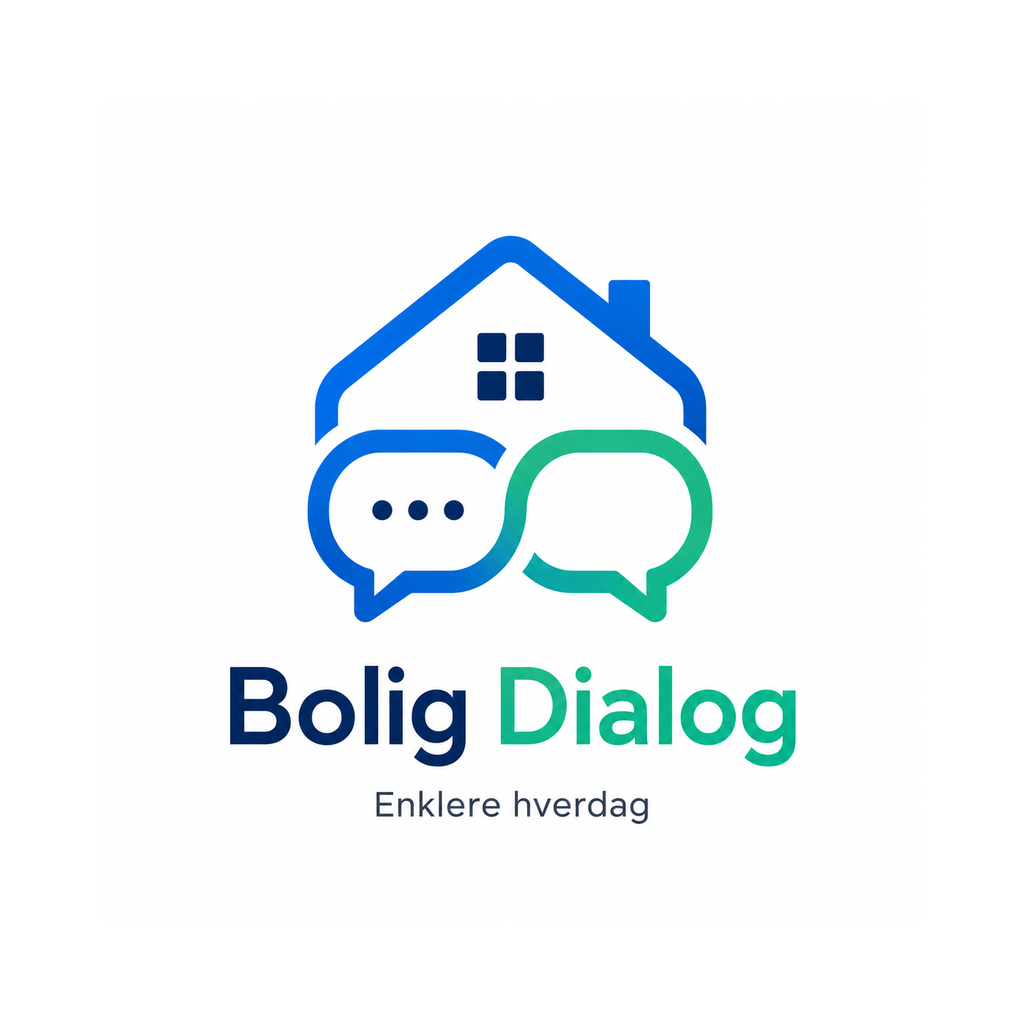
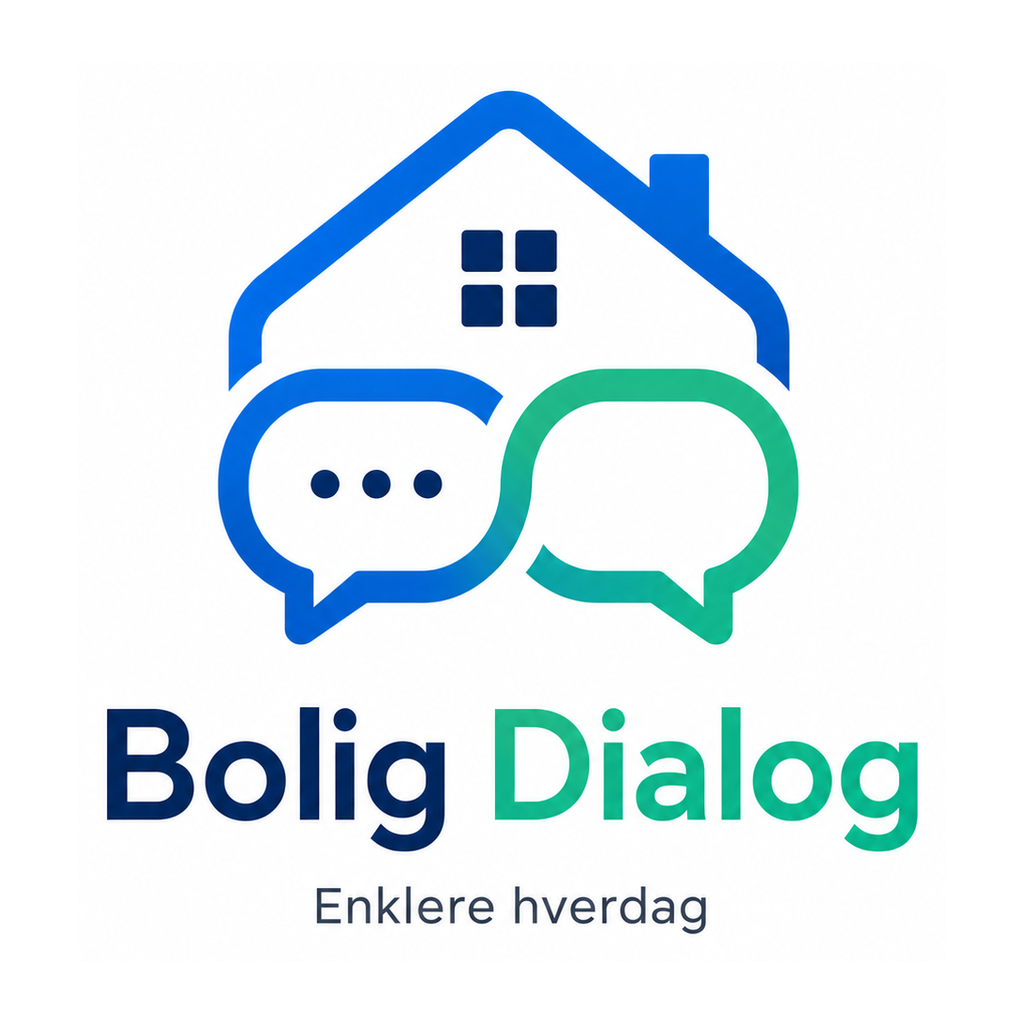
Fix frysing, dokumentopplasting og app-ikon
- App-ikon: logo beskjært og skalert til 868x900 (88% av 1024) — fyller hele ikonruten
- base64ToUint8Array: array-push i stedet for string-konkat — unngår frysing ved store filer
- renderItem: useCallback med [leases, units] dep — unngår unødvendige re-renders av FlatList
- useMemo importert for fremtidig bruk

Changed region(s): [[0.0938, 0.0625, 0.9062, 0.8438], [0.2812, 0.8438, 0.6875, 0.9062]]

diff --git a/app/(landlord)/property/[id].tsx b/app/(landlord)/property/[id].tsx
@@ -1,4 +1,4 @@
-import { useState, useEffect, useCallback } from 'react';
+import { useState, useEffect, useCallback, useMemo } from 'react';
 import { View, Text, FlatList, TouchableOpacity, Modal, TextInput, StyleSheet, ActivityIndicator, Alert, KeyboardAvoidingView, Platform, ScrollView, Image } from 'react-native';
 import DateTimePicker from '@react-native-community/datetimepicker';
 import * as Clipboard from 'expo-clipboard';
@@ -12,22 +12,21 @@ import { useAuthStore } from '@/stores/authStore';
 import { PropertyRow, UnitRow, ExpenseRow, ExpenseCategory, DocumentRow, DocumentCategory, LeaseRow } from '@/lib/types';
 import { Ionicons } from '@expo/vector-icons';
 
-// Base64 decode som fungerer i React Native (ingen atob-avhengighet)
-function decode(base64: string): string {
+// Konverter base64-streng til Uint8Array uten atob (fungerer i React Native)
+function base64ToUint8Array(base64: string): Uint8Array {
[1 lines of base64/hex data omitted]
-  let result = '';
-  let i = 0;
   const str = base64.replace(/=+$/, '');
-  while (i < str.length) {
-    const enc1 = chars.indexOf(str[i++]);
-    const enc2 = chars.indexOf(str[i++]);
-    const enc3 = chars.indexOf(str[i++]);
-    const enc4 = chars.indexOf(str[i++]);
-    result += String.fromCharCode((enc1 << 2) | (enc2 >> 4));
-    if (enc3 !== -1) result += String.fromCharCode(((enc2 & 15) << 4) | (enc3 >> 2));
-    if (enc4 !== -1) result += String.fromCharCode(((enc3 & 3) << 6) | enc4);
+  const bytes: number[] = [];
+  for (let i = 0; i < str.length; i += 4) {
+    const e1 = chars.indexOf(str[i]);
+    const e2 = chars.indexOf(str[i + 1]);
+    const e3 = chars.indexOf(str[i + 2]);
+    const e4 = chars.indexOf(str[i + 3]);
+    bytes.push((e1 << 2) | (e2 >> 4));
+    if (e3 !== -1) bytes.push(((e2 & 15) << 4) | (e3 >> 2));
+    if (e4 !== -1) bytes.push(((e3 & 3) << 6) | e4);
   }
-  return result;
+  return new Uint8Array(bytes);
 }
 
 const DOC_CATEGORIES: { key: DocumentCategory; label: string; icon: string; color: string }[] = [
@@ -137,11 +136,7 @@ export default function PropertyDetailScreen() {
     setUploadingDoc(true);
     try {
       const base64 = await FileSystem.readAsStringAsync(pendingDoc.uri, { encoding: FileSystem.EncodingType.Base64 });
-      const byteCharacters = decode(base64);
-      const byteArray = new Uint8Array(byteCharacters.length);
-      for (let i = 0; i < byteCharacters.length; i++) {
-        byteArray[i] = byteCharacters.charCodeAt(i);
-      }
+      const byteArray = base64ToUint8Array(base64);
       const path = `${user!.id}/${docsUnit.id}/${Date.now()}_${pendingDoc.name}`;
       const { error: upErr } = await supabase.storage.from('documents').upload(path, byteArray, { contentType: pendingDoc.mimeType });
       if (upErr) throw upErr;
@@ -500,7 +495,7 @@ export default function PropertyDetailScreen() {
             <Text style={s.emptyText}>Ingen enheter ennå. Legg til en enhet.</Text>
           </View>
         }
-        renderItem={({ item }) => {
+        renderItem={useCallback(({ item }: { item: UnitWithInvite }) => {
           const st = statusLabel(item.invite_status);
           const activeLease = leases.find(l => l.unit_id === item.id && !l.ended_at);
           const pastLeases = leases.filter(l => l.unit_id === item.id && l.ended_at);
@@ -557,7 +552,7 @@ export default function PropertyDetailScreen() {
               </View>
             </View>
           );
-        }}
+        }, [leases, units])}
       />
 
       {/* Add / Edit Unit Modal */}
